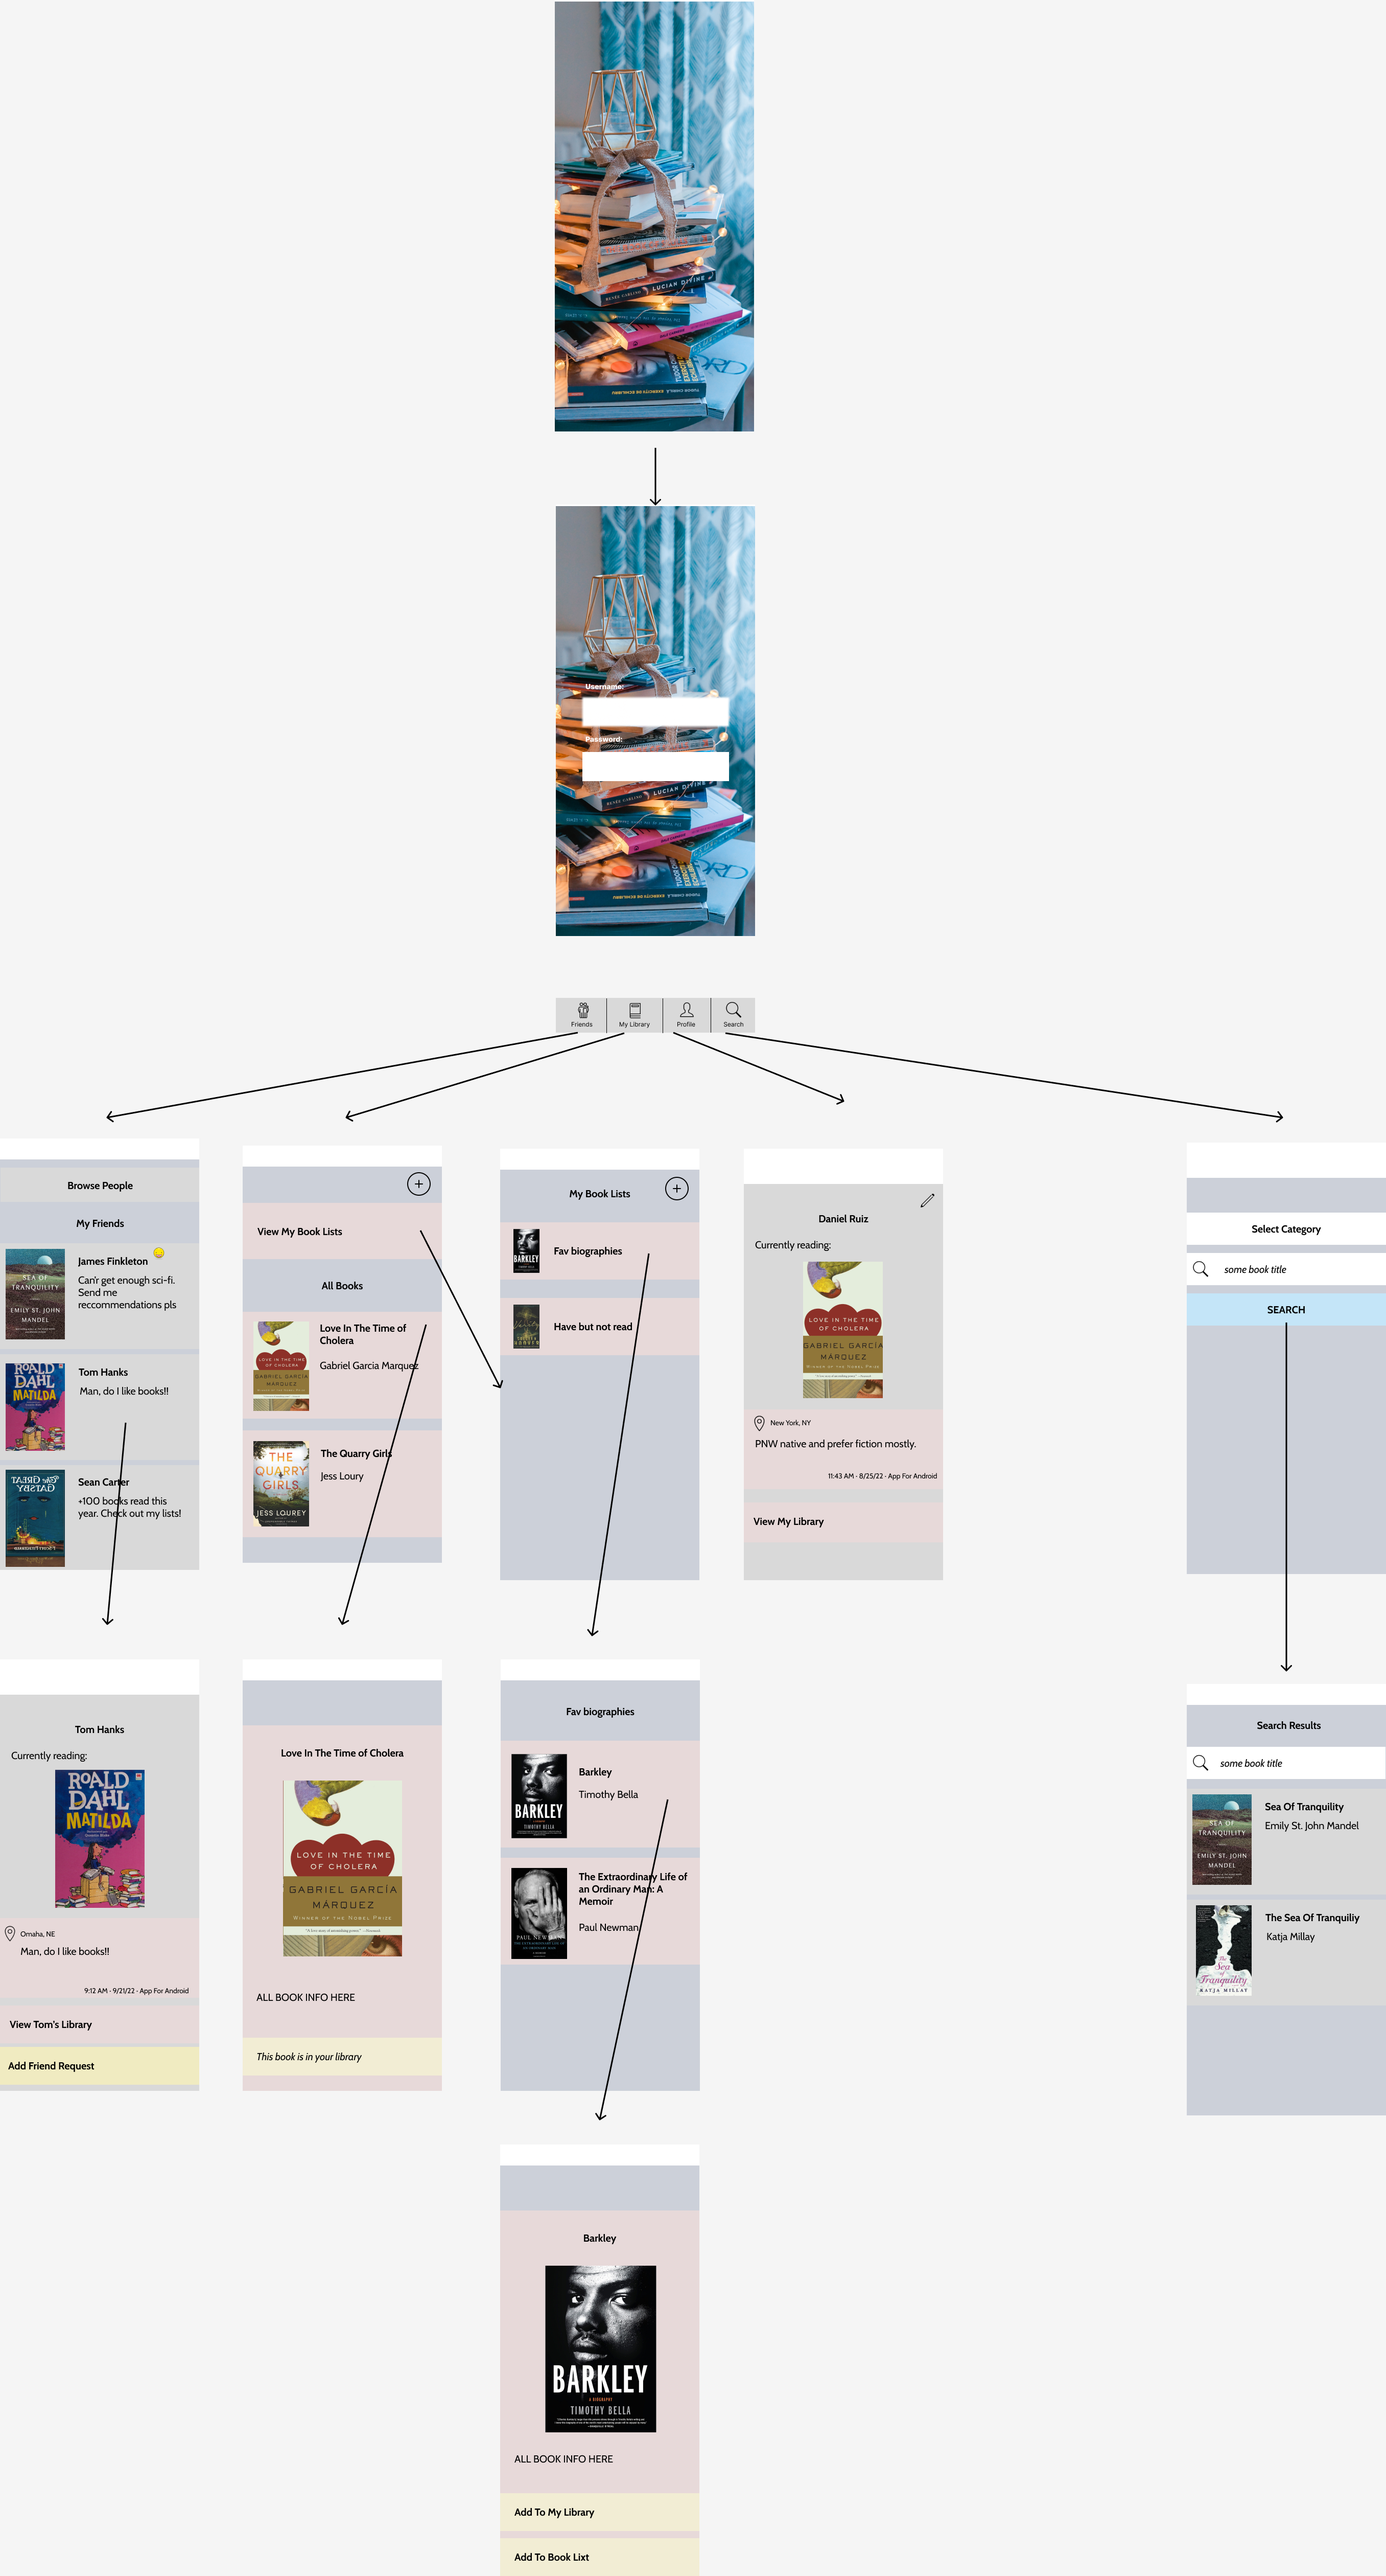
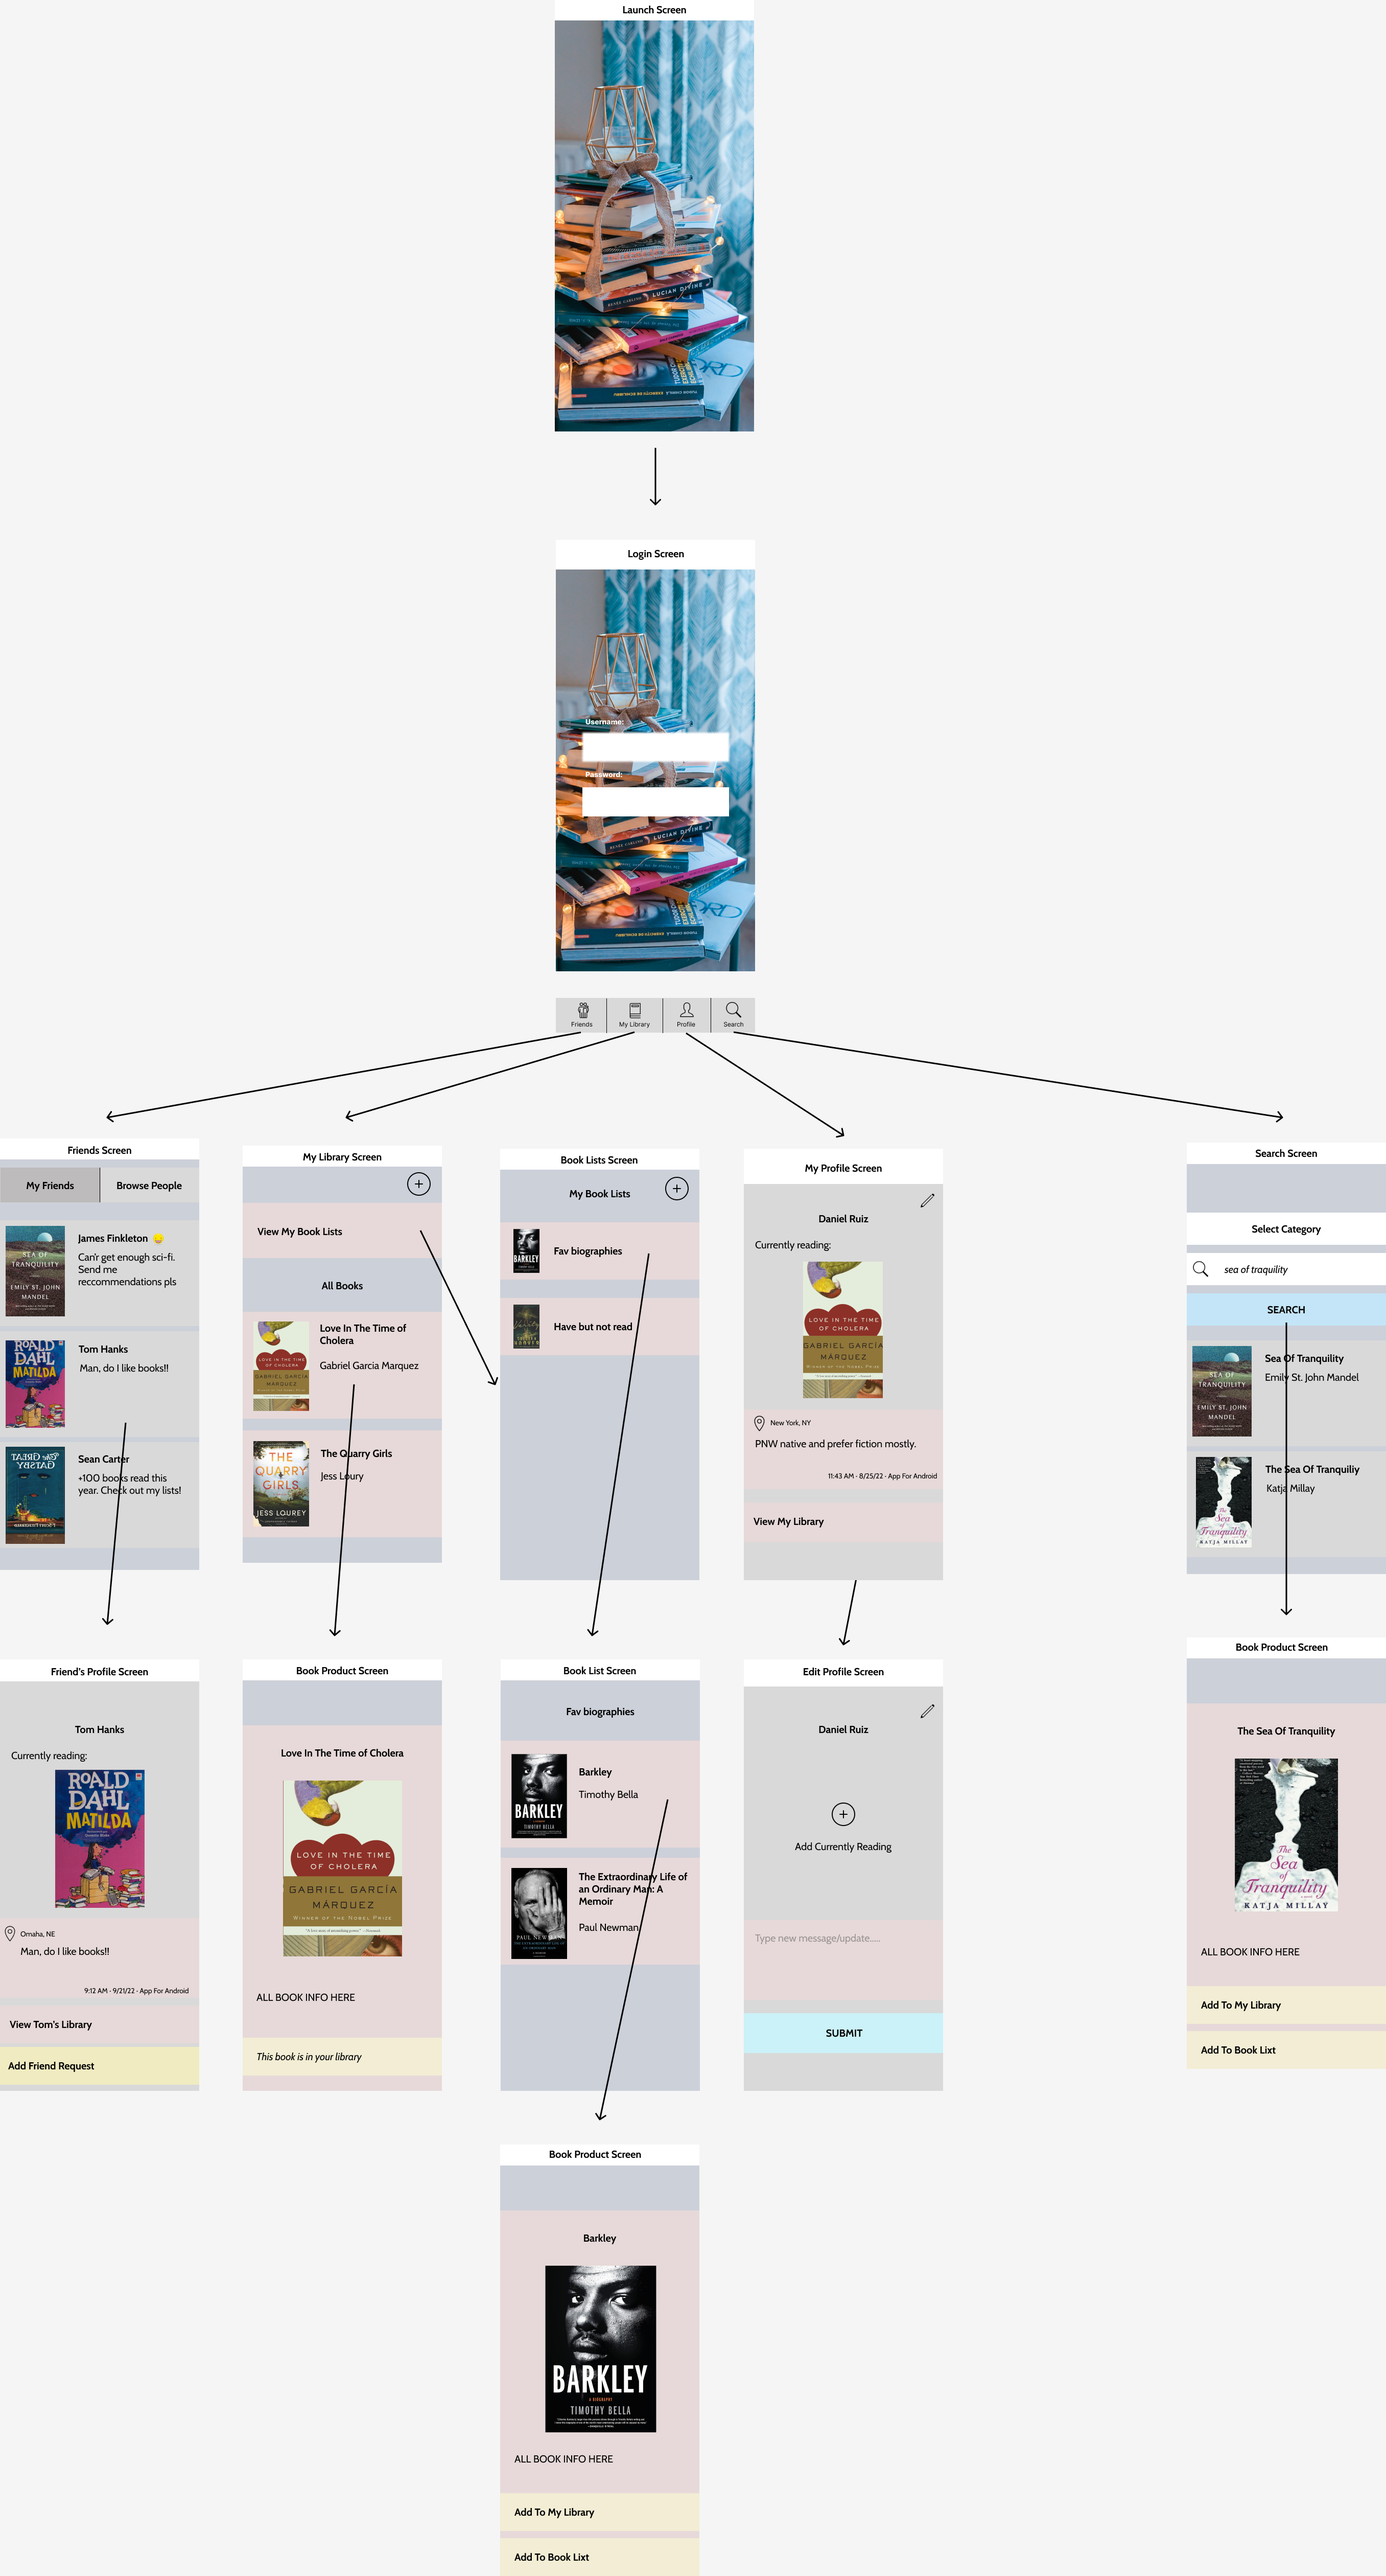
Update wireframe and add navigation to README

diff --git a/README.md b/README.md
@@ -62,18 +62,50 @@
 
 **Tab Navigation** (Tab to Screen)
 
-* [fill out your first tab]
-* [fill out your second tab]
-* [fill out your third tab]
+* Friends
+* My Library
+* My Profile
+* Search
 
 **Flow Navigation** (Screen to Screen)
 
-- [list first screen here]
+- Login Screen
+  - => Friends Screen
+
+- Friends Screen
+  - => Friends's Profile Screen
+
+- Friend's Profile Screen
+  - => User's Library Screen
+
+- My Library Screen
+  - => View My Books list Screen
+  - => Book Product Screen
+
+- My Profile Screen
+  - => Edit Profile Screen
+
+- Edit Profile Screen
+  - => Profile Screen (after saving changes to profile)
+
+- Search Screen
+  - => Book Product Screen
+
+- Book Product Screen
+  - => NONE
+
+- Book Lists Screen
+  - => Book List Screen
+
+- Book List Screen
+    - => Book Product Screen
+
+<!-- - [list first screen here]
   - [list screen navigation here]
   - ...
 - [list second screen here]
   - [list screen navigation here]
-  - ...
+  - ... -->
 
 ## Wireframes
 
